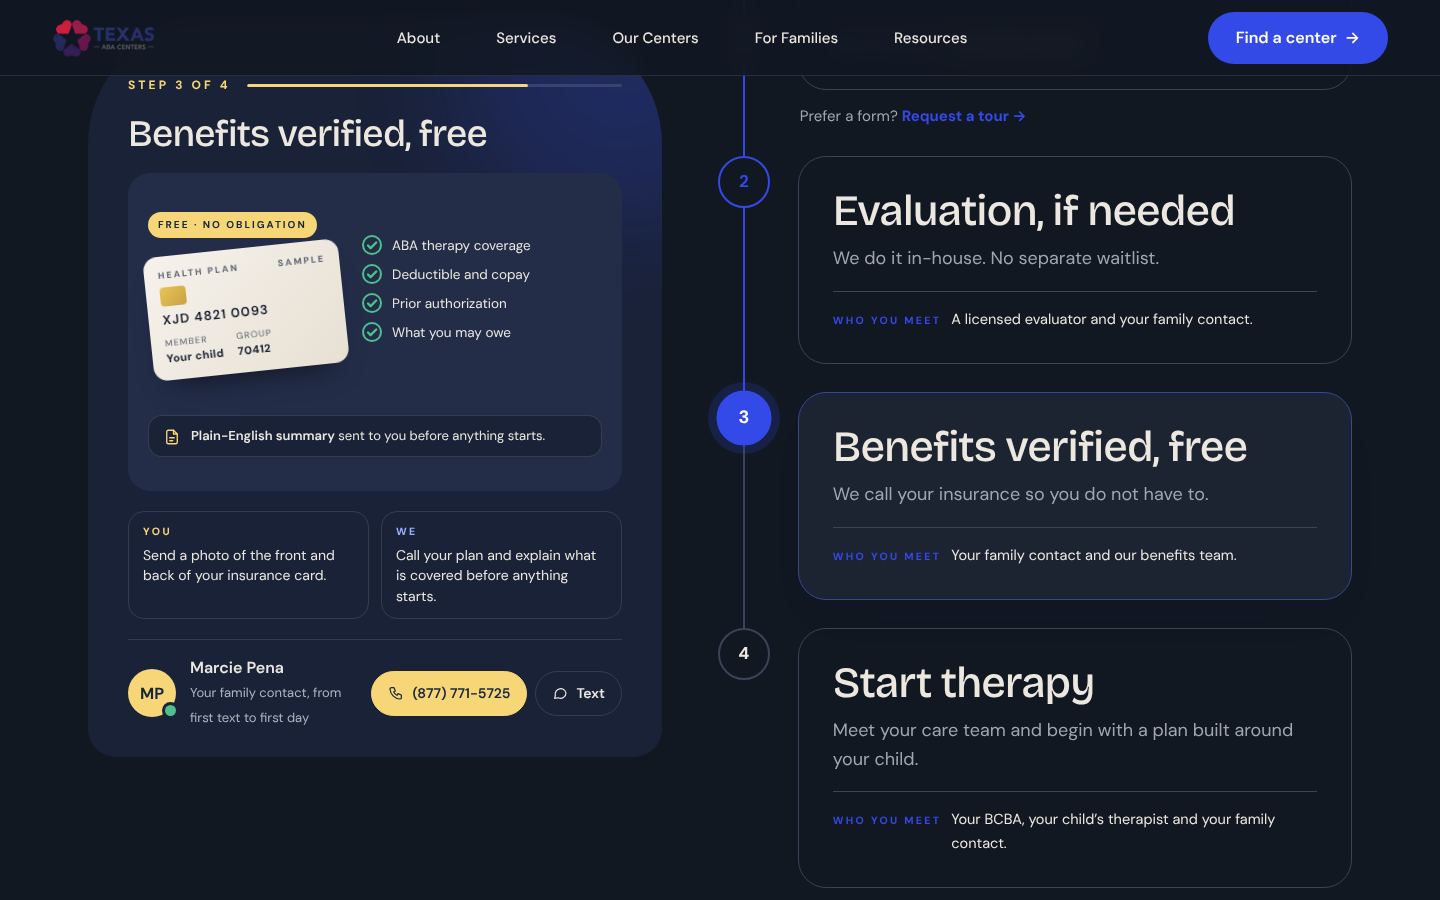
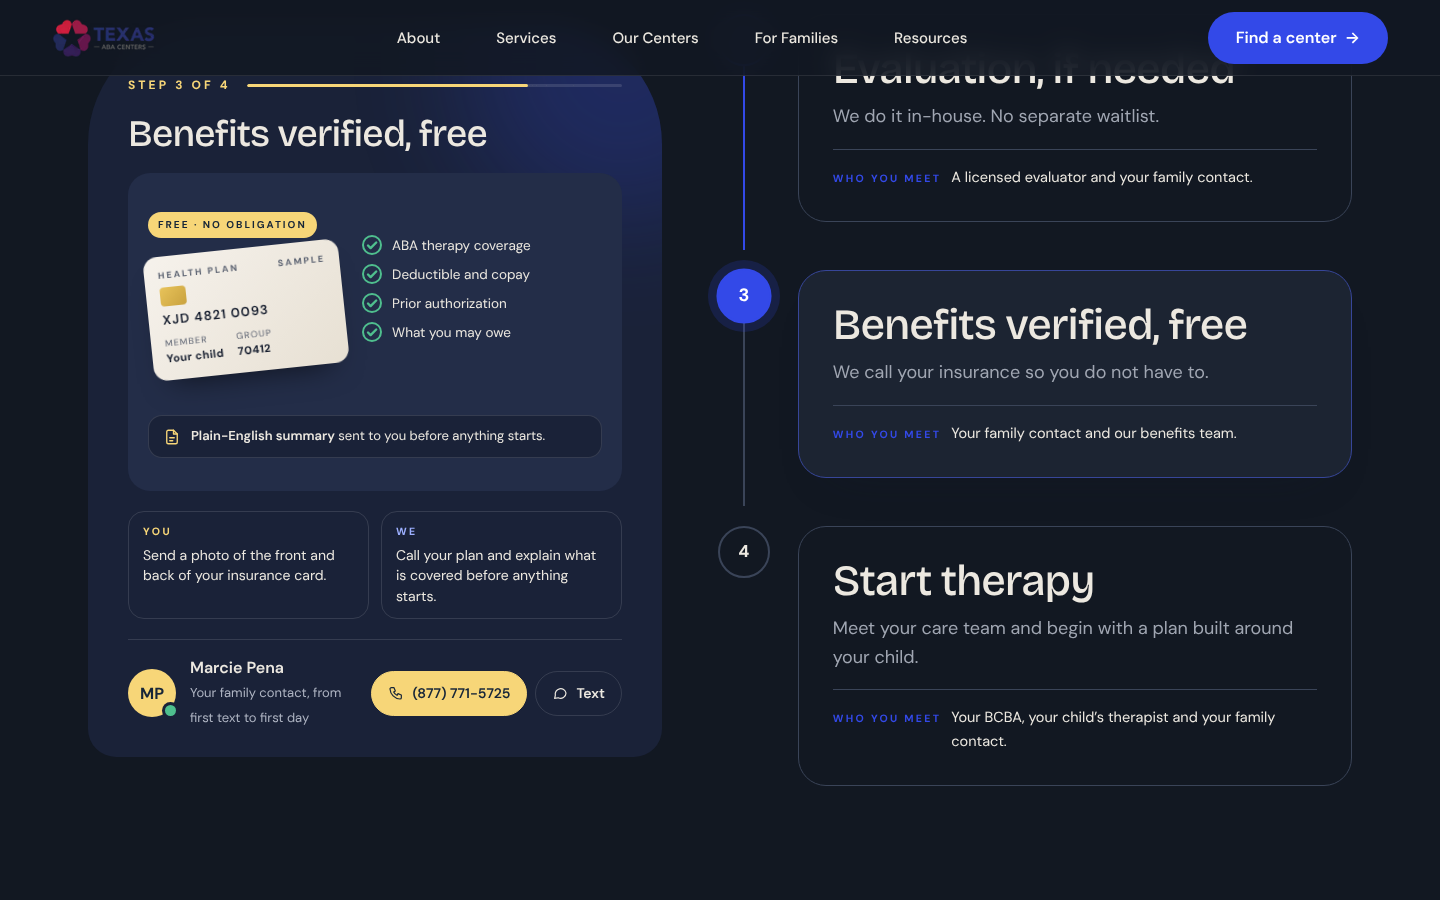
Getting Started: panel title color and a calmer step switch
The panel's h3 picked up the global heading color (ink) and vanished
into the dark panel. It now uses the panel foreground token.

The active step switched as soon as the next card touched the middle
of the viewport, before the reader got there. The step now follows a
reading line 40% down the viewport (the last card whose top has crossed
it), and desktop cards get 48px between them so each scene has room to
play before the next takes over.

Claude-Session: https://claude.ai/code/session_0148iGctpp869iqiiacvHED3

diff --git a/src/components/getting-started/GettingStarted.tsx b/src/components/getting-started/GettingStarted.tsx
@@ -26,19 +26,32 @@ export function GettingStarted() {
     setActiveIndex(i);
   }, []);
 
+  // Scroll drives the panel. The active step is the card whose top has most recently crossed the
+  // reading line (40% down the viewport), so a card switches only once the eye is on it, and
+  // never switches early just because the next card has entered the middle of the screen.
   useEffect(() => {
-    if (!('IntersectionObserver' in window)) return;
-    const io = new IntersectionObserver(
-      (entries) => {
-        if (Date.now() < lockUntil.current) return;
-        entries.forEach((e) => {
-          if (e.isIntersecting) setActiveIndex(stepEls.current.indexOf(e.target as HTMLLIElement));
-        });
-      },
-      { rootMargin: '-45% 0px -45% 0px' },
-    );
-    stepEls.current.forEach((el) => el && io.observe(el));
-    return () => io.disconnect();
+    let raf = 0;
+    const measure = () => {
+      raf = 0;
+      if (Date.now() < lockUntil.current) return;
+      const line = window.innerHeight * 0.4;
+      let next = 0;
+      stepEls.current.forEach((el, i) => {
+        if (el && el.getBoundingClientRect().top <= line) next = i;
+      });
+      setActiveIndex((cur) => (cur === next ? cur : next));
+    };
+    const onScroll = () => {
+      if (!raf) raf = window.requestAnimationFrame(measure);
+    };
+    measure();
+    window.addEventListener('scroll', onScroll, { passive: true });
+    window.addEventListener('resize', onScroll);
+    return () => {
+      window.removeEventListener('scroll', onScroll);
+      window.removeEventListener('resize', onScroll);
+      if (raf) window.cancelAnimationFrame(raf);
+    };
   }, []);
 
   return (

diff --git a/src/components/getting-started/GettingStarted.module.css b/src/components/getting-started/GettingStarted.module.css
@@ -55,7 +55,7 @@
 .pStep { font-size: 12px; letter-spacing: 0.26em; font-weight: 700; color: var(--gs-yellow); white-space: nowrap; font-variant-numeric: tabular-nums; }
 .pBar { flex: 1; height: 3px; border-radius: 3px; background: var(--gs-panel-line); overflow: hidden; }
 .pBar i { display: block; height: 100%; width: 25%; background: var(--gs-yellow); border-radius: 3px; transition: width 0.6s cubic-bezier(0.2, 0.8, 0.2, 1); }
-.pTitle { margin: 0; font-family: var(--font-display); font-size: clamp(30px, 2.6vw, 40px); line-height: 1.02; letter-spacing: -0.025em; font-weight: 500; min-height: 1.02em; }
+.pTitle { margin: 0; color: var(--gs-panel-fg); font-family: var(--font-display); font-size: clamp(30px, 2.6vw, 40px); line-height: 1.02; letter-spacing: -0.025em; font-weight: 500; min-height: 1.02em; }
 .stage { height: 318px; background: var(--gs-panel-2); border-radius: 22px; position: relative; overflow: hidden; }
 .split { display: grid; grid-template-columns: 1fr 1fr; gap: 12px; }
 .split > div { border: 1px solid var(--gs-panel-line); border-radius: 16px; padding: 12px 14px; }
@@ -198,6 +198,7 @@
 
 /* ---------- Steps rail ---------- */
 .steps { list-style: none; margin: 0; padding: 0; display: grid; gap: 28px; }
+@media (min-width: 981px) { .steps { gap: 48px; } .step::after { bottom: -48px; } }
 .step { display: grid; grid-template-columns: 52px minmax(0, 1fr); gap: 28px; position: relative; }
 .step::after { content: ''; position: absolute; left: 25px; top: 52px; bottom: -28px; width: 2px; background: var(--gs-line); transition: background 0.4s; }
 .step:last-child::after { display: none; }
